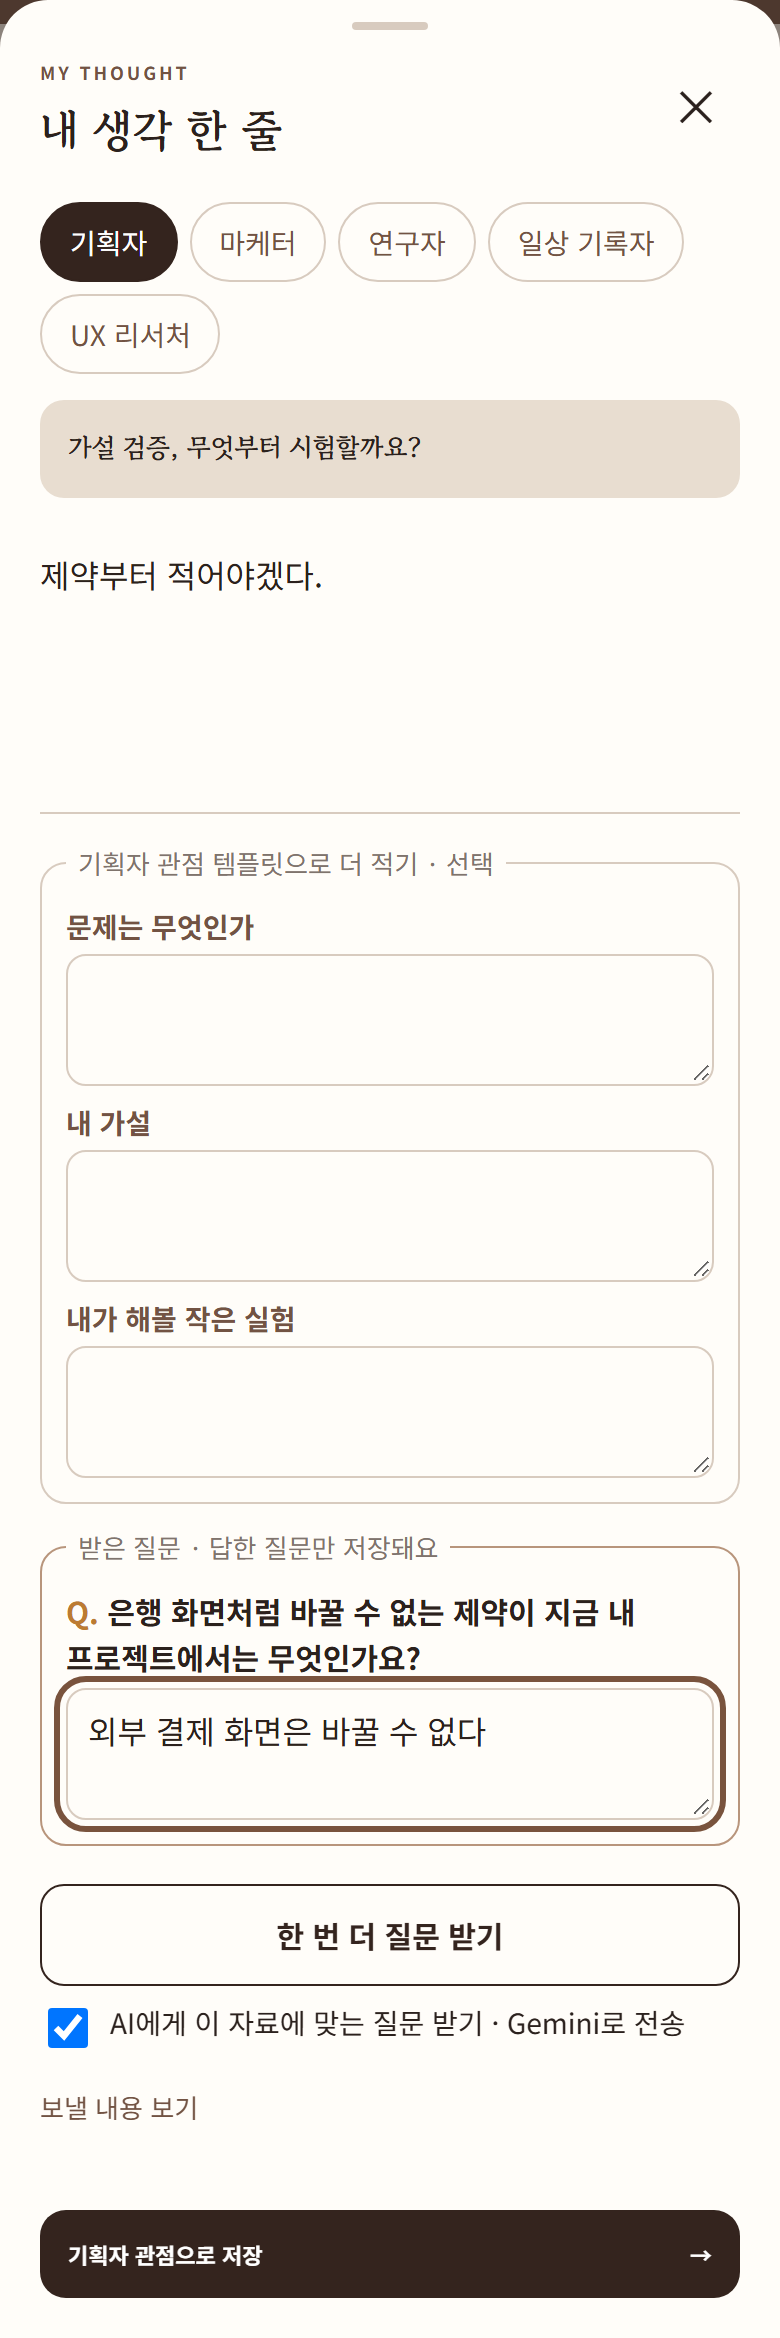
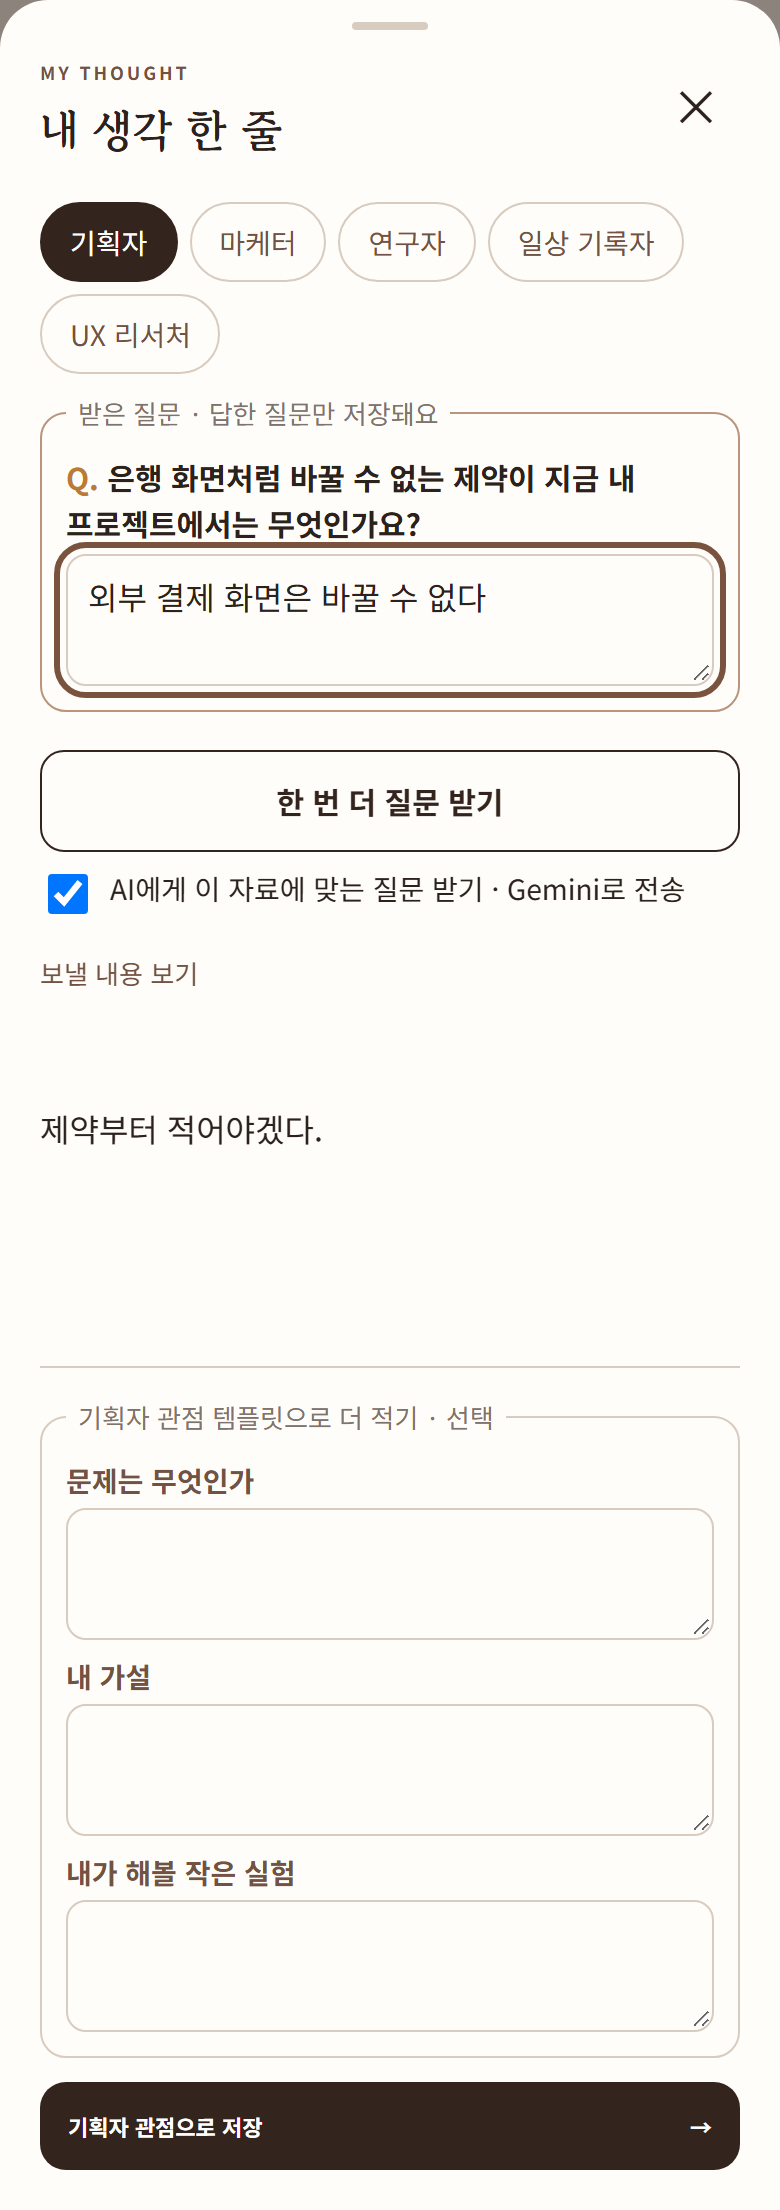
회고 요약 안정화 + 생각 남기기 입구 통합(U1~U4) (#23)
* fix(worker): keep monthly themes separate

Themes sometimes merged two thoughts or swept in an unrelated record. The
prompt now asks to split different thoughts and leave unmatched records
out; a theme covering most records is retried once with the reason.

* feat: one way to answer a record's question, visible without scrolling

- The record's question button is the single entry; its question becomes
  the first question in the sheet (the separate "질문 받기" link is gone)
- Sheet order: perspectives, answered questions, ask, free line, template
- Records without a thought show the entry under the title after saving
- The profile avatar is labelled "관점" and names the current perspective

* docs: record reflection and flow fixes, refresh screenshots

---------

diff --git a/index.html b/index.html
@@ -152,5 +152,5 @@
 <script src="./frontend/js/insight-context.js?v=79-coaching"></script><script src="./frontend/js/analytics-tools.js?v=31-evidence"></script><script src="./frontend/js/analytics-ui.js?v=38-no-badges"></script><script src="./frontend/js/reuse-tools.js?v=41-brunch"></script><script src="./frontend/js/reuse-ui.js?v=57-return"></script><script src="./frontend/js/accessibility.js?v=39-originals"></script>
 <script src="./frontend/js/record-original.js?v=76-organized"></script><script src="./frontend/js/record-ownership.js?v=38-no-badges"></script><script src="./frontend/js/auto-summary.js?v=71-long-pdf"></script><link rel="stylesheet" href="./frontend/css/six-part-analysis.css?v=45-clean-detail"><script src="./frontend/js/six-part-analysis.js?v=60-youtube-transcript"></script><link rel="stylesheet" href="./frontend/css/thought-writing.css?v=48"><script src="./frontend/js/thought-writing.js?v=70-creator-quality"></script><script src="./frontend/js/creator-scroll.js?v=50"></script><link rel="stylesheet" href="./frontend/css/writing-paths.css?v=57-view-record">
 <link rel="stylesheet" href="./frontend/css/discovery.css?v=77-related-why">
-<link rel="stylesheet" href="./frontend/css/perspective.css?v=82-polish">
-<link rel="stylesheet" href="./frontend/css/reflection.css?v=80-reflection"><script src="./frontend/js/writing-paths.js?v=62-fast-draft"></script><script src="./frontend/js/record-delete.js?v=76-organized"></script><script src="./frontend/js/detail-navigation.js?v=57"></script><script src="./frontend/js/perspective-ui.js?v=80-reflection"></script><script src="./frontend/js/thought-questions.js?v=79-coaching"></script><script src="./frontend/js/writing-feedback.js?v=79-coaching"></script><script src="./frontend/js/thought-memory.js?v=80-reflection"></script><script src="./frontend/js/principle-ui.js?v=80-reflection"></script><script src="./frontend/js/monthly-report.js?v=80-reflection"></script><script src="./frontend/js/discovery-hints.js?v=77-related-why"></script></body></html>
+<link rel="stylesheet" href="./frontend/css/perspective.css?v=84-entry">
+<link rel="stylesheet" href="./frontend/css/reflection.css?v=80-reflection"><script src="./frontend/js/writing-paths.js?v=62-fast-draft"></script><script src="./frontend/js/record-delete.js?v=76-organized"></script><script src="./frontend/js/detail-navigation.js?v=57"></script><script src="./frontend/js/perspective-ui.js?v=84-entry"></script><script src="./frontend/js/thought-questions.js?v=84-entry"></script><script src="./frontend/js/writing-feedback.js?v=79-coaching"></script><script src="./frontend/js/thought-memory.js?v=80-reflection"></script><script src="./frontend/js/principle-ui.js?v=80-reflection"></script><script src="./frontend/js/monthly-report.js?v=80-reflection"></script><script src="./frontend/js/discovery-hints.js?v=77-related-why"></script></body></html>

diff --git a/frontend/js/thought-questions.js b/frontend/js/thought-questions.js
@@ -8,7 +8,8 @@
   <label class="question-consent"${ENDPOINT?'':' hidden'}><input type="checkbox" id="question-consent"><span>AI에게 이 자료에 맞는 질문 받기 · Gemini로 전송</span></label>
   <details id="question-preview-details"${ENDPOINT?'':' hidden'}><summary>보낼 내용 보기</summary><pre id="question-preview"></pre><small>제목, 자료 앞부분 최대 6,000자, 관점, 내 생각 한 줄, 앞 질문과 내 답을 보냅니다. 무료 등급에서는 전송 내용이 Google 제품 개선에 사용될 수 있어요. 개인정보·비밀 자료는 보내지 마세요.</small></details>
   <p id="question-status" role="status" aria-live="polite"></p>`;
-  $('#save-thought').before(box);
+  // Right under the answered questions and above the free line, so asking is visible when the sheet opens.
+  $('#thought-input').before(box);
   const askButton=$('#ask-question'),consent=$('#question-consent'),status=$('#question-status');
   let consentScope='',busy=false;
 
@@ -69,9 +70,28 @@
   }
   askButton.onclick=askQuestion;
 
-  // Entry point on the record itself: open the sheet and ask right away.
-  const ask=document.createElement('button');
-  ask.type='button';ask.id='ask-from-record';ask.textContent='질문 받기';
-  $('#edit-thought').before(ask);
-  ask.onclick=()=>{openThought(state.currentId);askQuestion();};
+  // One way in from the record: its own question becomes the first question in the sheet.
+  function answerRecordQuestion(){
+    const id=state.currentId;openThought(id);
+    const context=sheetApi.current();if(!context)return;
+    if(context.questions.length)return;
+    const recordQuestion=$('#detail-question').textContent.trim();
+    if(!recordQuestion)return askQuestion();
+    sheetApi.addQuestion(recordQuestion,'question');
+    track('question_shown',{recordId:id,type:context.record.type,value:'record'});
+  }
+  const answer=$('#answer-question');
+  answer.textContent='이 질문에 답하며 생각 남기기';
+  answer.onclick=answerRecordQuestion;
+  // Records without a thought also offer it under the title, so it is visible right after saving.
+  const heroButton=document.createElement('button');
+  heroButton.type='button';heroButton.id='hero-thought-cta';heroButton.textContent='질문에 답하며 내 생각 남기기';heroButton.hidden=true;
+  $('#detail-tags').after(heroButton);
+  heroButton.onclick=answerRecordQuestion;
+  const originalOpenRecord=openRecord;
+  openRecord=function(id,options){
+    originalOpenRecord(id,options);
+    const record=state.records.find(r=>r.id===id);
+    heroButton.hidden=!record||!!record.thought?.trim();
+  };
 })();

diff --git a/sw.js b/sw.js
@@ -1,9 +1,9 @@
-const CACHE='memoive-v83-polish-20261014';
+const CACHE='memoive-v84-entry-20261015';
 const ASSETS=[
   './frontend/js/writing-paths.js?v=62-fast-draft','./frontend/css/writing-paths.css?v=57-view-record','./frontend/js/creator-scroll.js?v=50',
   './frontend/js/thought-writing.js?v=70-creator-quality','./frontend/css/thought-writing.css?v=48','./frontend/js/six-part-analysis.js?v=60-youtube-transcript',
   './frontend/css/six-part-analysis.css?v=45-clean-detail','./frontend/js/auto-summary.js?v=71-long-pdf','./frontend/js/record-original.js?v=76-organized',
-  './frontend/js/record-delete.js?v=76-organized','./frontend/js/detail-navigation.js?v=57','./frontend/js/discovery-hints.js?v=77-related-why','./frontend/css/discovery.css?v=77-related-why','./frontend/js/perspective-tools.js?v=79-coaching','./frontend/js/perspective-ui.js?v=80-reflection','./frontend/css/perspective.css?v=82-polish','./frontend/js/thought-questions.js?v=79-coaching','./frontend/js/writing-feedback.js?v=79-coaching','./frontend/js/reflection-tools.js?v=80-reflection','./frontend/js/thought-memory.js?v=80-reflection','./frontend/js/principle-ui.js?v=80-reflection','./frontend/js/monthly-report.js?v=80-reflection','./frontend/css/reflection.css?v=80-reflection','./frontend/js/record-ownership.js?v=38-no-badges',
+  './frontend/js/record-delete.js?v=76-organized','./frontend/js/detail-navigation.js?v=57','./frontend/js/discovery-hints.js?v=77-related-why','./frontend/css/discovery.css?v=77-related-why','./frontend/js/perspective-tools.js?v=79-coaching','./frontend/js/perspective-ui.js?v=84-entry','./frontend/css/perspective.css?v=84-entry','./frontend/js/thought-questions.js?v=84-entry','./frontend/js/writing-feedback.js?v=79-coaching','./frontend/js/reflection-tools.js?v=80-reflection','./frontend/js/thought-memory.js?v=80-reflection','./frontend/js/principle-ui.js?v=80-reflection','./frontend/js/monthly-report.js?v=80-reflection','./frontend/css/reflection.css?v=80-reflection','./frontend/js/record-ownership.js?v=38-no-badges',
   './frontend/js/reuse-tools.js?v=41-brunch','./frontend/js/reuse-ui.js?v=57-return','./frontend/css/reuse.css?v=57-no-previews',
   './frontend/js/evidence-tools.js?v=31-evidence','./frontend/js/evidence-ui.js?v=31-evidence','./frontend/js/study-tools.js?v=81-v2-tasks',
   './tools/self-test/self-test.js?v=31-evidence','./tools/self-test/self-test.css?v=31-evidence','./frontend/js/analytics-tools.js?v=31-evidence',

diff --git a/frontend/js/perspective-ui.js b/frontend/js/perspective-ui.js
@@ -44,6 +44,7 @@
     manager.querySelectorAll('[data-delete-perspective]').forEach(button=>button.onclick=()=>deletePerspective(button.dataset.deletePerspective));
     $('#perspective-editor summary').textContent=custom.length>=P.MAX_CUSTOM&&!editingId?`내 관점은 ${P.MAX_CUSTOM}개까지 만들 수 있어요`:editingId?'관점 고치기':'+ 내 관점 만들기';
     $('#profile-initial').textContent=selected.name[0];
+    $('#open-profile').setAttribute('aria-label',`관점과 설정 열기, 현재 ${selected.label}`);
   }
   function resetForm(){editingId='';$('#perspective-form').reset();$('#perspective-form-status').textContent='';$('#perspective-save').textContent='관점 저장';}
   function startEdit(id){
@@ -74,17 +75,20 @@
   };
   $('#perspective-cancel').onclick=()=>{resetForm();$('#perspective-editor').open=false;renderPerspectiveSettings();};
 
-  /* Thought sheet: one free line first, then the perspective's template as optional fields. */
+  /* Thought sheet: perspective chips, answered questions, the free line, then the template as optional fields.
+     Questions come first so asking is visible without scrolling past the template. */
   const sheet=$('#thought-sheet'),freeInput=$('#thought-input');
   const chips=document.createElement('div');
   chips.className='thought-perspectives';chips.setAttribute('role','group');chips.setAttribute('aria-label','어떤 관점의 생각인가요?');
   $('#thought-question').before(chips);
+  // The fixed question is now asked through the question list, so the separate box is not shown.
+  $('#thought-question').hidden=true;
   const template=document.createElement('fieldset');
   template.className='thought-template';
   freeInput.after(template);
   const questions=document.createElement('fieldset');
   questions.className='thought-questions';
-  template.after(questions);
+  freeInput.before(questions);
   freeInput.placeholder='한 문장이면 충분해요.';
   freeInput.setAttribute('aria-label','내 생각 한 줄');
   let session=null;

diff --git a/frontend/css/perspective.css b/frontend/css/perspective.css
@@ -55,8 +55,11 @@
 #question-preview { max-height: 180px; overflow: auto; margin: 0 0 6px; border-radius: 8px; background: var(--foam); padding: 8px; font-size: .75rem; white-space: pre-wrap; word-break: break-all; }
 #question-preview-details small { color: var(--muted); font-size: .75rem; line-height: 1.5; }
 #question-status { min-height: 1em; margin: 0; color: var(--coffee); font-size: .875rem; }
-/* Same look as "내 생각 다듬기"; only its position differs. */
-#ask-from-record { margin-left: auto; margin-right: 8px; }
+/* Entry under the record title when there is no thought yet. */
+#hero-thought-cta { display: block; min-height: 44px; margin-top: 14px; border: 0; border-radius: 22px; background: var(--milk); padding: 0 18px; color: var(--espresso); font-size: .9375rem; font-weight: 700; }
+#hero-thought-cta[hidden] { display: none; }
+/* The avatar only shows an initial, so name what it opens. */
+.profile-button::after { content: "관점"; position: absolute; left: 50%; bottom: -15px; transform: translateX(-50%); color: var(--coffee); font: 700 .625rem/1 'Noto Sans KR', sans-serif; white-space: nowrap; }
 
 /* Writing feedback in the creator. */
 .writing-feedback { margin: 14px 0; border: 1px solid var(--line); border-radius: 14px; padding: 14px; }

diff --git a/docs/ai-review-2026-10-14.md b/docs/ai-review-2026-10-14.md
@@ -81,11 +81,22 @@
 - **회고 요약이 불안정합니다:** 주제 분리가 차수마다 달랐습니다. 2·3차는 맞게 나눴지만, 1차는 둘을 하나로 묶었고 4차는 관련 없는 기록까지 한 주제에 넣었습니다. 회고 프롬프트는 이번에 바꾸지 않았으므로 다음 수정 대상입니다.
 - 글 피드백(4차 × 3건 = 12번): 근거 없는 수치는 12번 모두 짚었고, 과한 일반화("반드시 성과")는 10번 짚었습니다(단어 기준 자동 판정). 글을 고쳐 쓴 경우는 없었습니다.
 
-## 4. 다음에 할 일 (우선순위)
+## 4. 회고 요약과 화면 흐름 수정 (2026-10-15)
+
+| 항목 | 바꾼 것 | 확인 |
+|---|---|---|
+| 회고 요약 불안정 | 서로 다른 생각은 나누고 맞지 않는 기록은 빼도록 지시를 보강했습니다. 한 주제가 기록 대부분(5개 중 4개 이상, 큰 달은 60% 초과)을 덮으면 이유를 붙여 한 번 다시 요청합니다. Worker 버전 `c7626f26` | 같은 생각 5개로 세 번 요청해 세 번 모두 두 주제로 맞게 나뉘었습니다. 관련 없는 기록은 한 번도 들어가지 않았습니다 |
+| U1 저장 직후 첫 화면 | 생각이 없는 기록은 제목 바로 아래에 "질문에 답하며 내 생각 남기기" 버튼을 둡니다 | 375px 화면에서 버튼이 299px 위치(첫 화면 안). 생각을 저장하면 사라짐 |
+| U2 입구 중복 | 상세의 "질문 받기" 링크를 없애고, 기존 질문 영역의 버튼("이 질문에 답하며 생각 남기기")을 유일한 입구로 썼습니다. 누르면 기록의 질문이 시트의 첫 질문으로 들어가고, 시트 맨 위의 고정 질문 상자는 숨겼습니다 | 질문과 답이 출처(`question`)와 함께 저장되고 `question_shown`(값 `record`) 이벤트가 남음 |
+| U3 질문 받기 위치 | 시트 순서를 관점 칩 → 받은 질문 → 질문 받기 → 한 줄 입력 → 템플릿으로 바꿨습니다 | 시트 위에서 질문 받기까지의 거리가 템플릿 아래(1,500px대)에서 306px로 줄었습니다 |
+| U4 관점 입구 | 이니셜 버튼 아래에 "관점"을 표시하고, 접근성 이름에 현재 관점을 넣었습니다 | 화면 캡처로 겹침 없음 확인 |
+
+## 5. 다음에 할 일 (우선순위)
 1. ~~질문의 사용자 전제를 줄이기 (A1, A2)~~ → 3절에서 반영. 남은 문제는 위 목록 참고.
-2. **회고 요약 안정화:** 한 주제가 대부분의 기록을 덮거나 관련 없는 기록을 포함하면 다시 요청하도록 서버 검사를 추가합니다.
-3. **생각 남기기 입구를 하나로 (U2, U3):** 예전 고정 질문을 질문 받기의 첫 질문으로 합치고, 시트에서 질문 받기를 위쪽으로 옮깁니다.
-4. **저장 직후 생각 남기기를 첫 화면에 (U1):** 저장 직후에는 생각 남기기 영역으로 스크롤하거나 상단에 버튼을 둡니다. PRD 12장의 "질문을 자동으로 띄울지"와 함께 결정합니다.
-5. 관점 설정 입구 문구 추가 (U4).
+2. ~~회고 요약 안정화~~ → 4절에서 반영.
+3. ~~생각 남기기 입구를 하나로 (U2, U3)~~ → 4절에서 반영. 예전 고정 질문을 질문 받기의 첫 질문으로 합치고, 시트에서 질문 받기를 위쪽으로 옮깁니다.
+4. ~~저장 직후 생각 남기기를 첫 화면에 (U1)~~ → 4절에서 반영. 자동으로 질문을 띄우는 방식(PRD 12장)은 사용자 검증 뒤 결정합니다. 저장 직후에는 생각 남기기 영역으로 스크롤하거나 상단에 버튼을 둡니다. PRD 12장의 "질문을 자동으로 띄울지"와 함께 결정합니다.
+5. ~~관점 설정 입구 문구 추가 (U4)~~ → 4절에서 반영.
+6. **남은 것:** 재요청까지 실패해 기본 질문으로 넘어가는 경우, 긴 질문, 경미한 전제. 그리고 [사용 검증 준비물](validation-kit-2026-10-14.md)에 따른 실제 사용자 점검.
 
 이 점검은 사람의 사용 결과를 대신하지 않습니다. 위 수정 뒤 [사용 검증 준비물](validation-kit-2026-10-14.md)로 실제 사용자 점검을 진행합니다.
